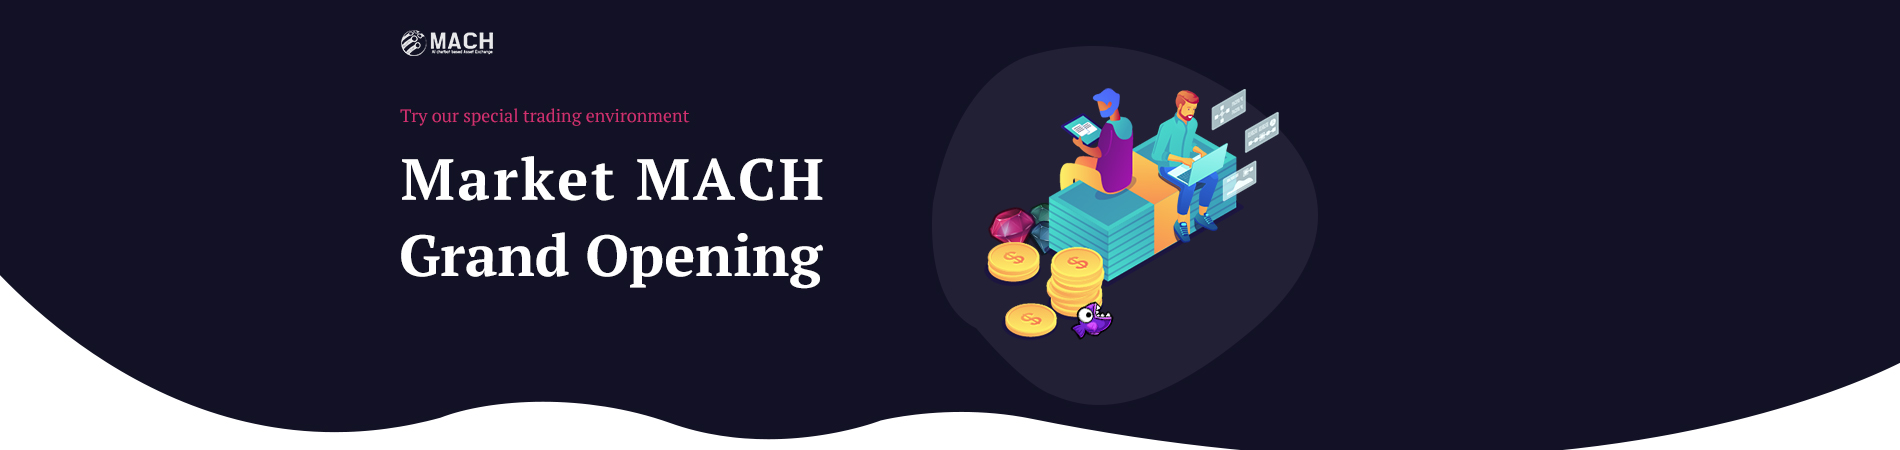
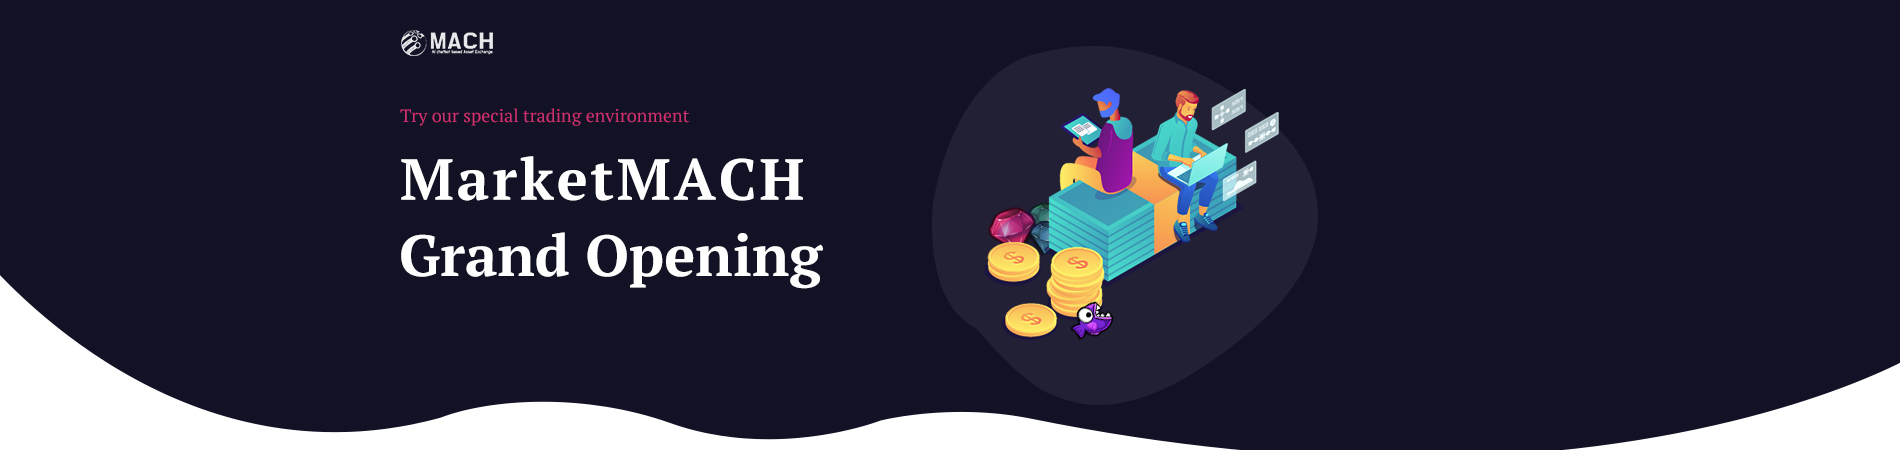
메인 헤더,푸터 잘못된 부분 수정

Changed region(s): [[0.2174, 0.3422, 0.4347, 0.4667]]

diff --git a/views/v2_en/include/header.html b/views/v2_en/include/header.html
@@ -116,7 +116,10 @@
 </script>
         <header class="header">
             <div class="top_menu cf">
-                <span><a href="" class="lang lang_kr">Korean</a></span>
+                <span><a href="" class="lang lang_ko">Ko</a></span>
+                <span><a href="" class="lang lang_en">En</a></span>
+                <!-- <span><a href="" class="lang lang_jp">Jp</a></span>
+                <span><a href="" class="lang lang_cn">Cn</a></span> -->
                 <ul class="menu_list cf">
                     <li><a href="/howto/trade/vtr">User Guide</a></li>
                     <li><a href="/supports/info">Support</a></li>
@@ -186,12 +189,12 @@
                                         </ul>
                                     </li>
                                     <li class="mdl_area">
-                                        <p>Curious about Market MACH?</p>
-                                        <a class="btn bgc2" href="https://mymach.io" target="_blank">About Market MACH</a>
+                                        <p>Curious about MarketMACH?</p>
+                                        <a class="btn bgc2" href="https://mymach.io" target="_blank">About MarketMACH</a>
                                     </li>
                                     <li class="btm_area">
                                         <dl class="available_coin cf">
-                                            <dt>Market MACH Coins</dt>
+                                            <dt>MarketMACH Coins</dt>
                                             <dd><a href="https://mymach.io/" target="_blank"><img src="/static/img/symbol/symbol_mach.png" alt="마하코인" title="마하코인"></a></dd>
                                             <dd><a href="https://www.bitcoin.com/" target="_blank"><img src="/static/img/symbol/symbol_bitcoin.png" alt="비트코인" title="비트코인"></a></dd>
                                             <dd><a href="https://www.ethereum.org/" target="_blank"><img src="/static/img/symbol/symbol_ethereum.png" alt="이더리움" title="이더리움"></a></dd>
@@ -202,7 +205,7 @@
                                             <dd><a class="noCursor" href="javascript:return false" target="_blank"><i class="material-icons">add_circle</i></a></dd>
                                         </dl>
                                         <dl class="available_coin cf">
-                                            <dt>Market MACH Games</dt>
+                                            <dt>MarketMACH Games</dt>
                                             <dd><a href="/supports/notice/detail?noticeId=5cb992d51e9f4a605ffa83e5"><img src="/static/img/symbol/symbol_monkey.png" alt="마하 어드벤쳐" title="마하 어드벤쳐"></a></dd>
                                             <dd><a class="noCursor" href="javascript:return false" target="_blank"><i class="material-icons">add_circle</i></a></dd>
                                             <dd><a class="noCursor" href="javascript:return false" target="_blank"><i class="material-icons">add_circle</i></a></dd>
@@ -240,7 +243,7 @@
                                     </li>
                                     <li class="btm_area">
                                         <dl class="available_coin cf">
-                                            <dt>Market MACH Coins</dt>
+                                            <dt>MarketMACH Coins</dt>
                                             <dd><a href="https://mymach.io/" target="_blank"><img src="/static/img/symbol/symbol_mach.png" alt="MACH" title="마하코인"></a></dd>
                                             <dd><a href="https://www.bitcoin.com/" target="_blank"><img src="/static/img/symbol/symbol_bitcoin.png" alt="비트코인" title="비트코인"></a></dd>
                                             <dd><a href="https://www.ethereum.org/" target="_blank"><img src="/static/img/symbol/symbol_ethereum.png" alt="이더리움" title="이더리움"></a></dd>
@@ -251,7 +254,7 @@
                                             <dd><a class="noCursor" href="javascript:return false" target="_blank"><i class="material-icons">add_circle</i></a></dd>
                                         </dl>
                                         <dl class="available_coin cf">
-                                            <dt>Market MACH Games</dt>
+                                            <dt>MarketMACH Games</dt>
                                             <dd><a href="/supports/notice/detail?noticeId=5cb992d51e9f4a605ffa83e5"><img src="/static/img/symbol/symbol_monkey.png" alt="마하 어드벤쳐" title="마하 어드벤쳐"></a></dd>
                                             <dd><a class="noCursor" href="javascript:return false" target="_blank"><i class="material-icons">add_circle</i></a></dd>
                                             <dd><a class="noCursor" href="javascript:return false" target="_blank"><i class="material-icons">add_circle</i></a></dd>

diff --git a/views/v2_en/include/m_header.html b/views/v2_en/include/m_header.html
@@ -160,8 +160,8 @@
                                         </ul>
                                     </li>
                                     <li class="mdl_area">
-                                        <em>Curious about Market MACH?</em>
-                                        <a href="https://youtu.be/9H1FE8xyvME" target="_blank" class="btn bgc2 w100p">About Market MACH</a>
+                                        <em>Curious about MarketMACH?</em>
+                                        <a href="https://youtu.be/9H1FE8xyvME" target="_blank" class="btn bgc2 w100p">About MarketMACH</a>
                                     </li>
                                 </ul>
                             </div> 
@@ -205,7 +205,7 @@
                         <li><a href="/howto/trade/vtr" class="btn_1depth">User Guide</a></li>
                         <li>
                             <dl class="available_coin cf">
-                                <dt>Market MACH Coins</dt>
+                                <dt>MarketMACH Coins</dt>
                                 <dd><a href="https://mymach.io/" target="_blank"><img src="/static/img/symbol/symbol_mach.png" alt="MACH" title="마하코인"></a></dd>
                                 <dd><a href="https://www.bitcoin.com/" target="_blank"><img src="/static/img/symbol/symbol_bitcoin.png" alt="비트코인" title="비트코인"></a></dd>
                                 <dd><a href="https://www.ethereum.org/" target="_blank"><img src="/static/img/symbol/symbol_ethereum.png" alt="이더리움" title="이더리움"></a></dd>
@@ -216,7 +216,7 @@
                                 <dd><a class="noCursor" href="javascript:return false" target="_blank"><i class="material-icons">add_circle</i></a></dd>
                             </dl>
                             <dl class="available_coin cf">
-                                <dt>Market MACH Games</dt>
+                                <dt>MarketMACH Games</dt>
                                 <dd><a href="/supports/notice/detail?noticeId=5cb992d51e9f4a605ffa83e5"><img src="/static/img/symbol/symbol_monkey.png" alt="MACH" title="몽키 클래시 사가"></a></dd>
                                 <dd><a class="noCursor" href="javascript:return false" target="_blank"><i class="material-icons">add_circle</i></a></dd>
                                 <dd><a class="noCursor" href="javascript:return false" target="_blank"><i class="material-icons">add_circle</i></a></dd>

diff --git a/public/static/css/common.css b/public/static/css/common.css
@@ -83,7 +83,11 @@ input:-webkit-autofill:active { transition: background-color 5000s ease-in-out 0
 .header{margin: auto; max-width: 1200px;}
 .header .top_menu{height: 40px; border: 1px solid #c1c1c1; box-sizing: border-box;}
 .header .top_menu .lang{display: inline-block; height: 24px; line-height: 24px; margin: 8px 0 0 10px; padding-left: 25px; font-weight: bold; font-size: 12px; color: #666;}
-.header .top_menu .lang_kr{background: url("/static/img/main/ico_korea.png") 0 50% no-repeat; background-size: 23px 15.6px;}
+.header .top_menu .lang_ko{background: url("/static/img/symbol/flag_korea.png") 0 50% no-repeat; background-size: 24px 24px;}
+.header .top_menu .lang_en{background: url("/static/img/symbol/flag_usa.png") 0 50% no-repeat; background-size: 24px 24px;}
+.header .top_menu .lang_jp{background: url("/static/img/symbol/flag_japan.png") 0 50% no-repeat; background-size: 24px 24px;}
+.header .top_menu .lang_cn{background: url("/static/img/symbol/flag_china.png") 0 50% no-repeat; background-size: 24px 24px;}
+
 .header .top_menu .menu_list{float: right;}
 .header .top_menu .menu_list > li{float: left; padding: 13px 0; }
 .header .top_menu .menu_list > li > a{float: left; padding: 0 9px; line-height: 1; font-size: 12px; color: #666; font-weight: bold; border-right: 1px solid #929292;}

diff --git a/views/v2_en/include/footer.html b/views/v2_en/include/footer.html
@@ -16,8 +16,8 @@
                         Institute of Technology / 1213, 28, Digital-ro 30-gil, Guro-gu, Seoul, Republic of Korea <br>
                         Tel. 1899-8696 / Fax 02) 855-0261 / E-mail io@onlykcs.com <br>
                         Corporate Registration No. 767-86-00387 / Communication Sales Business Report No. 2019-Seoul Geumcheon-0118<br><br>
-                        <em>Korea Certification Service Co.,Ltd. is not a transaction party to communication sales but an intermediary of it and is NOT responsible for the goods and transaction information.</em><br><br>
-                        Korea Certification Service Co.,Ltd. © MarketMach All rights reserved.
+                        <em>Korea Certification Service Inc. is not a transaction party to communication sales <br>but an intermediary of it and is NOT responsible for the goods and transaction information.</em><br><br>
+                        Korea Certification Service Inc. © MarketMACH All rights reserved.
                     </p>
                 </dd>
                 <!-- 안전거래용 마켓마하 공식계좌-->

diff --git a/public/static/css/colgroup.css b/public/static/css/colgroup.css
@@ -130,6 +130,12 @@
 /*** btoc ***/
 .table_btoc .col2_1{width: 158px;}
 
+/********** otc **********/
+.table .colgroup_otc-sells .col4_1{}
+.table .colgroup_otc-sells .col4_2{}
+.table .colgroup_otc-sells .col4_3{}
+.table .colgroup_otc-sells .col4_4{}
+
 /********** Mobile MarkUp CSS **********/
 @media (max-width: 1199px){
 
